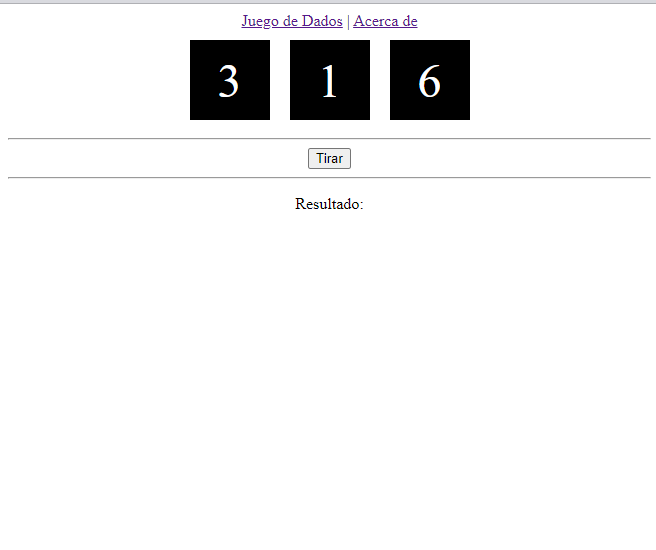
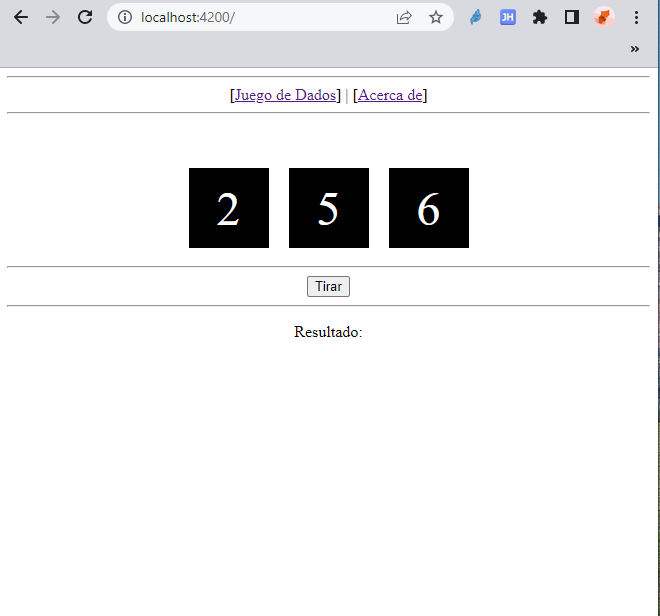
making juegodados the home page by default

Changed region(s): [[0.0, 0.0, 1.0, 1.0]]

diff --git a/src/app/app-routing.module.ts b/src/app/app-routing.module.ts
@@ -5,14 +5,9 @@ import { JuegodadosComponent } from './juegodados/juegodados.component';
 import { AcercadeComponent } from './acercade/acercade.component';
 
 const routes: Routes = [
-  {
-    path: 'juegodados',
-    component: JuegodadosComponent
-  },
-  {
-    path: 'acercade',
-    component: AcercadeComponent
-  }
+  {path: '', component: JuegodadosComponent},
+  {path: 'juegodados', component: JuegodadosComponent},
+  {path: 'acercade', component: AcercadeComponent}
 ];
 
 

diff --git a/src/app/app.component.html b/src/app/app.component.html
@@ -1,7 +1,9 @@
 <div style="text-align: center;">
-  <a routerLink="/juegodados">Juego de Dados</a>
+  <hr>
+  [<a routerLink="/juegodados">Juego de Dados</a>]
    | 
-  <a routerLink="/acercade">Acerca de</a>
+  [<a routerLink="/acercade">Acerca de</a>]
+  <hr><br><br>
   <div>
     <router-outlet></router-outlet>
   </div>

diff --git a/src/app/juegodados/juegodados.component.ts b/src/app/juegodados/juegodados.component.ts
@@ -28,7 +28,7 @@ export class JuegodadosComponent implements OnInit{
     if (this.valor1==this.valor2 && this.valor1==this.valor3)
       this.resultado = 'Gano';
     else
-      this.resultado = "";
+      this.resultado = "Sigue Participando";
   }
 
 
